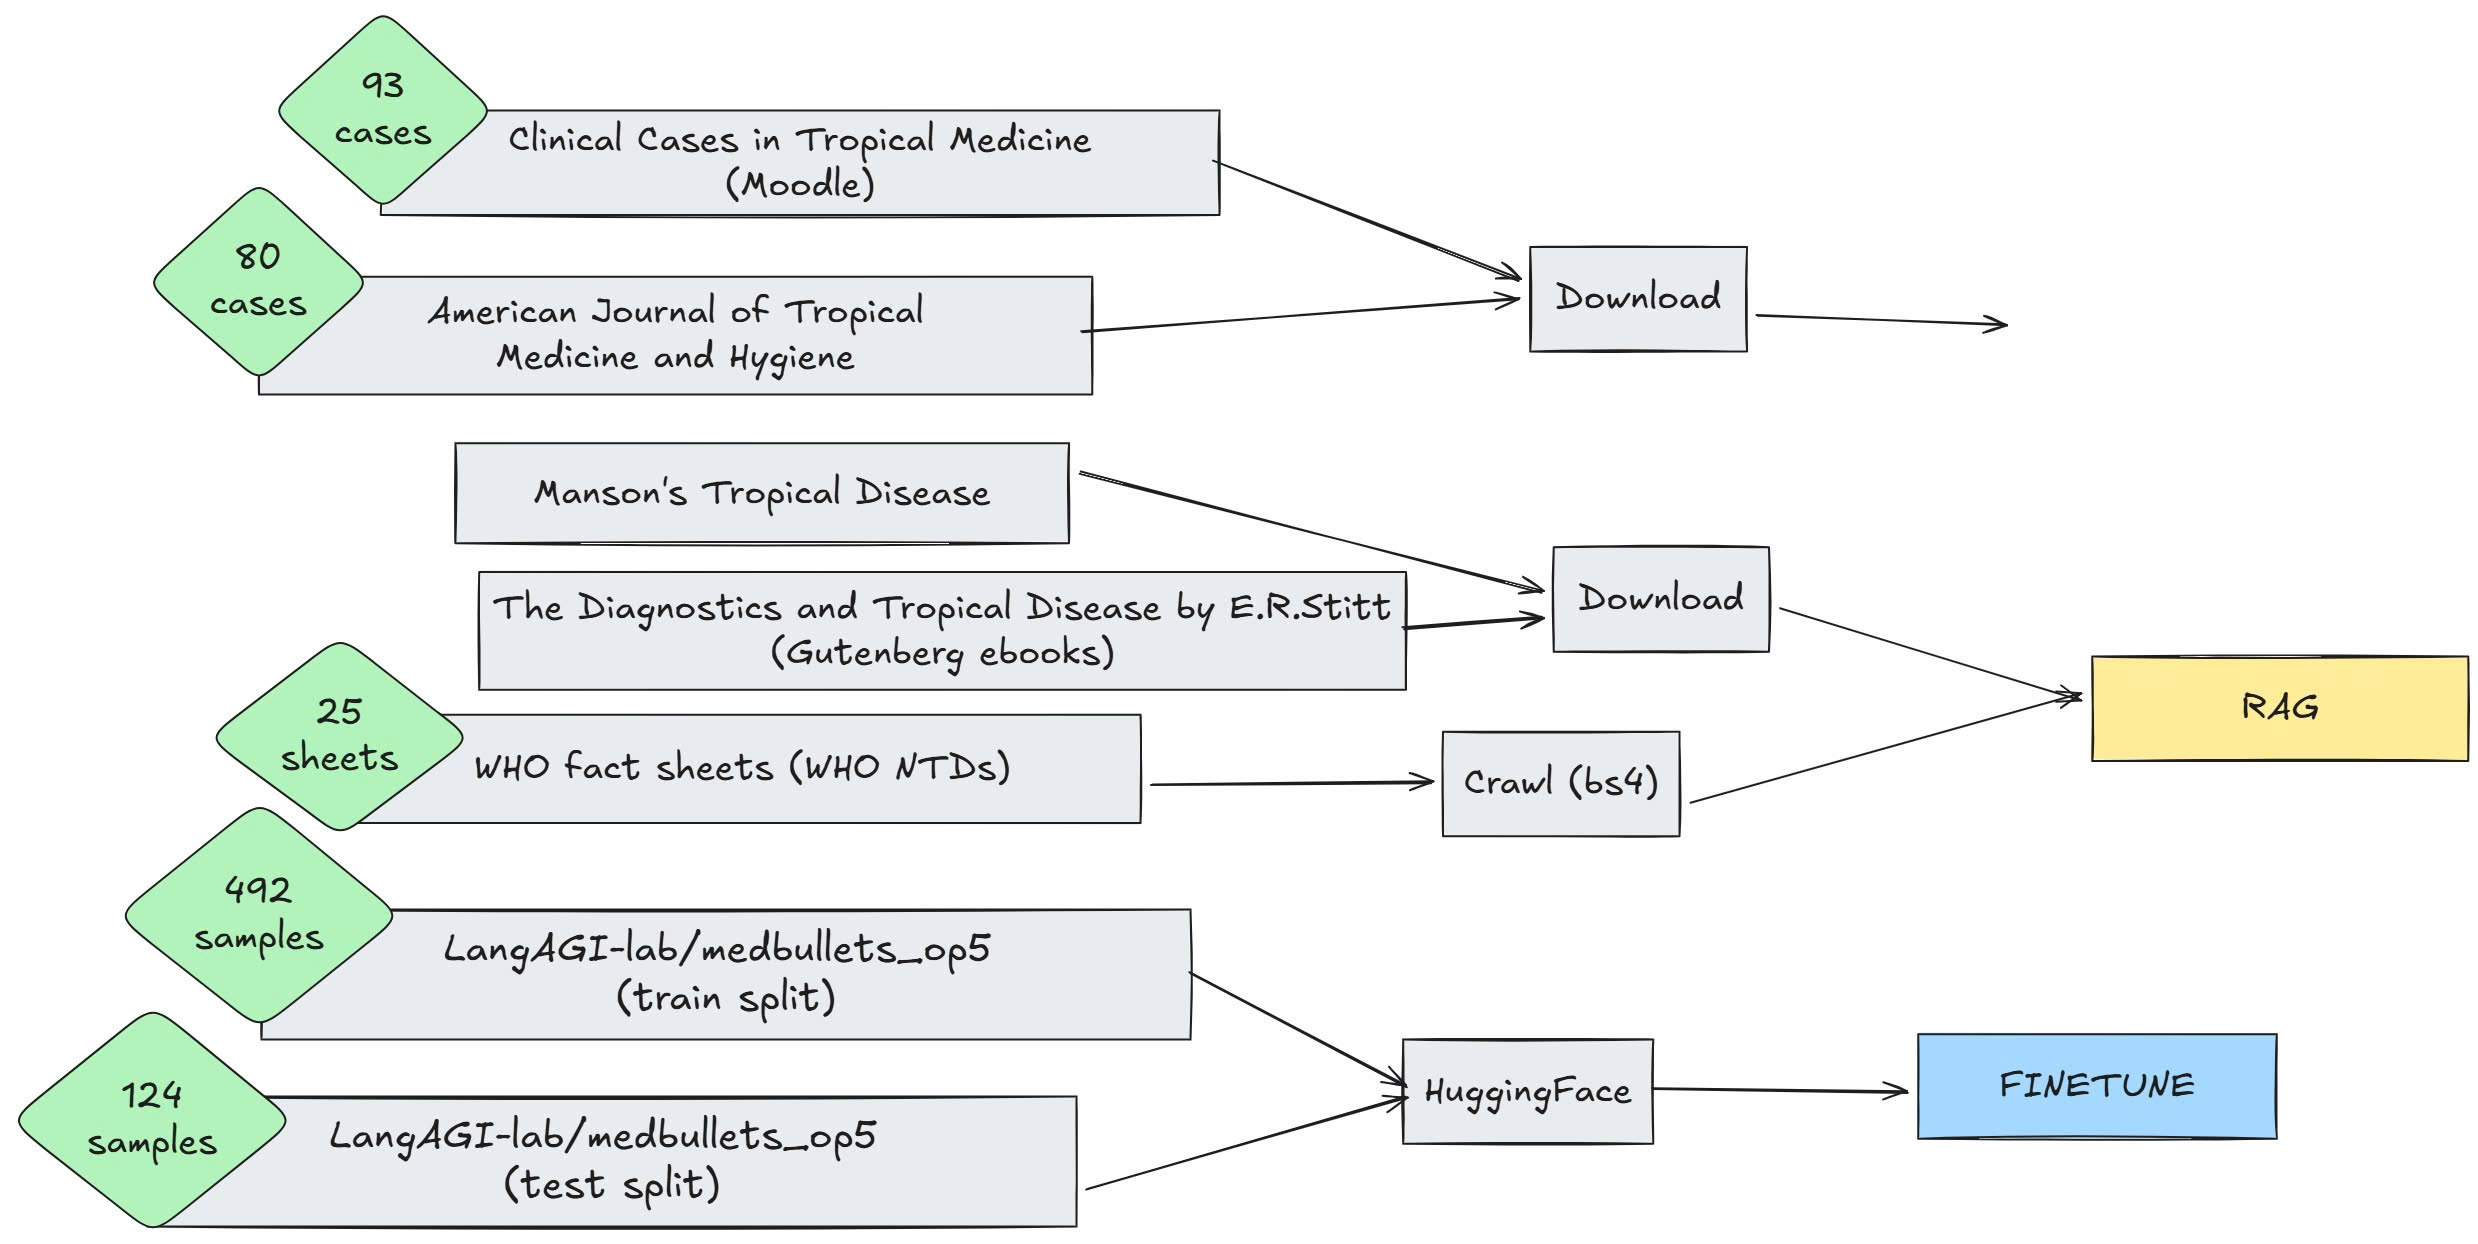
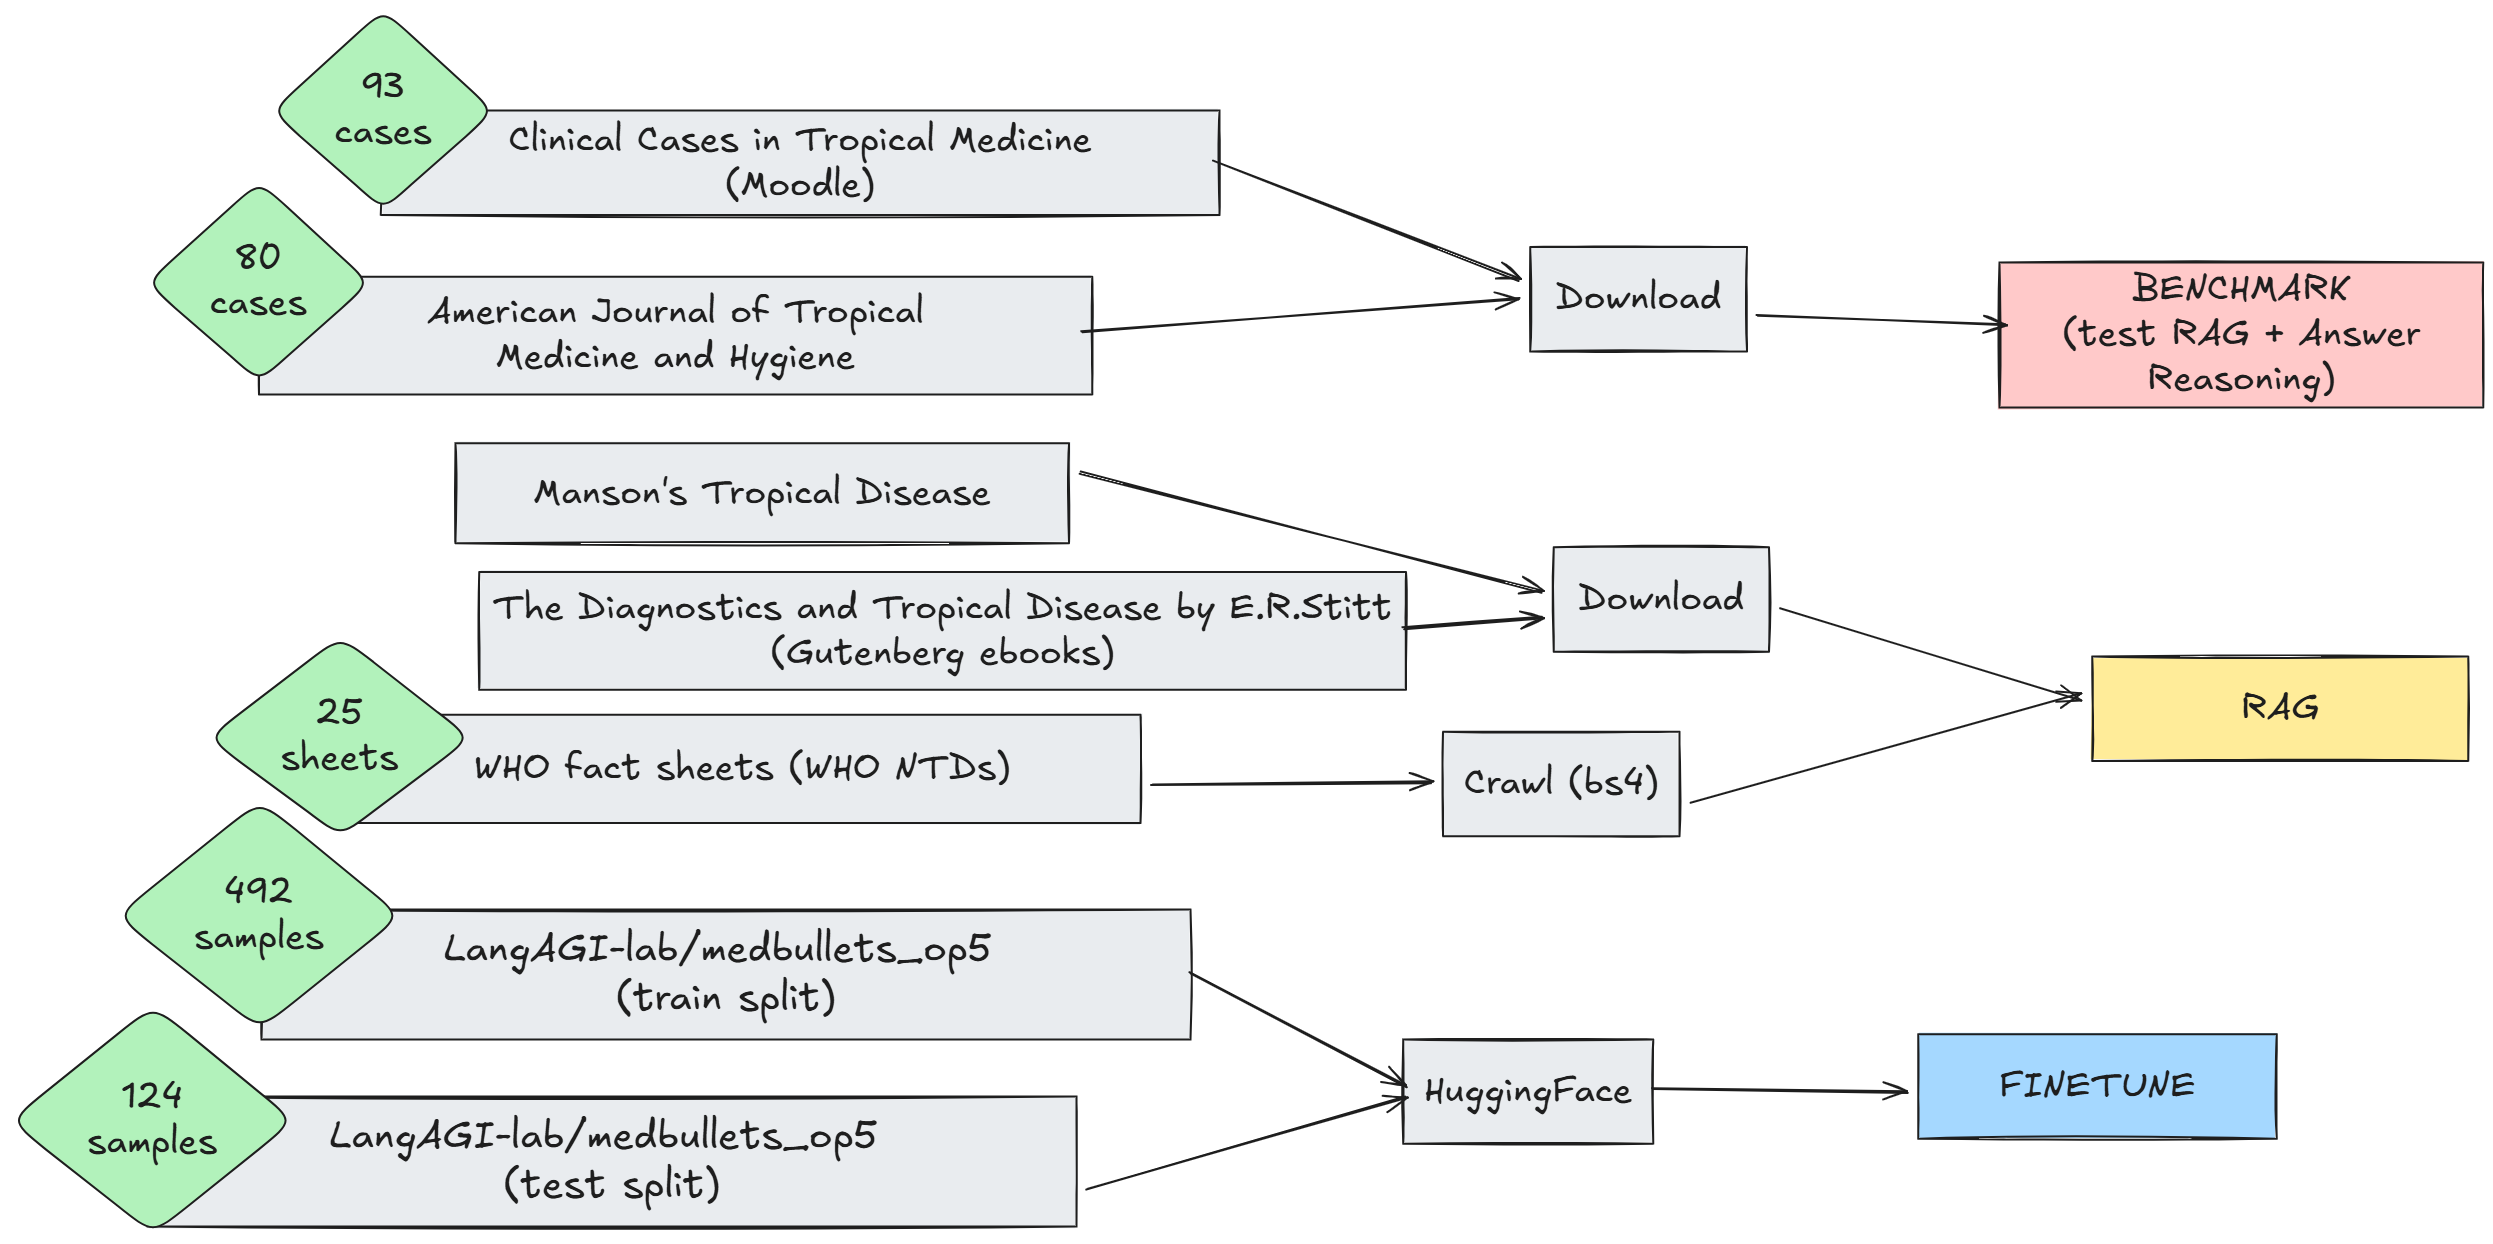
refactor: fix data partition figure and add ref for moodle.

diff --git a/sections/methodology-data-collection.tex b/sections/methodology-data-collection.tex
@@ -9,7 +9,7 @@
 We collect our data from various authoritative and reputable sources to ensure the factual correctness of our model,
 among which are textbooks, journals, and fact-sheets from worldwide institution.
 
-For textbooks, we collect top-tier ones in the field, including 
+For textbooks, we collect top-tier, standardized ones in the field, including 
 \textit{Manson's Tropical Infectious Diseases} (23rd edition)~\cite{farrar2014manson}, 
 \textit{Manson's Tropical Diseases} (24th edition)~\cite{farrar2023manson},
 \textit{Tropical and Parasitic Infections in the Intensive Care Unit}~\cite{feldman2005tropical} 
@@ -18,13 +18,14 @@ For textbooks, we collect top-tier ones in the field, including
 We also crawl the fact-sheets from \ac{WHO}'s official website. 
 For the QA-set, we utilize the medbullet\_op5 set from LangAGI-Lab on HuggingFace, 
 which contains sampled questions from \ac{USMLE}, a well-known medical licensing examination in the United States.
-We also synthesize another set based on 93 clinical case reports provided by the lecturer and 
+We also synthesize another set based on 93 clinical case reports provided by the lecturer \textit{(from Clinical Cases in Tropical Medicine~\cite{whitty2024clinical})} and 
 80 open-access case reports from the \ac{AJTMH}.
 The data sources in our collection are summarized in Table~\ref{tab:data-sources}.
 
 % Add table summarizing data sources
 \begin{table*}[htbp]
 \centering
+\caption{Overview of Data Sources}
 \begin{tabular}{llll}
 \hline
 \textbf{Name} & \textbf{Volume} & \textbf{Type} & \textbf{Modality} \\
@@ -44,20 +45,19 @@ Current Topics in Tropical Medicine
 The Diagnostic and Treatment of Tropical Diseases (E-book)
 & 63 ch. / 754 pp. & Textbook & Text + Images \\
 
-WHO 
+WHO Factsheets
 & 25 fact-sheets & Fact-sheet & Text \\
 
-medbullet\_op5 
+Medbullet Medical Exam Questions (medbullet\_op5)
 & 160 QA pairs & QA-set & Text + Images \\
 
-Moodle 
+Clinical Cases in Tropical Medicine (Moodle)
 & 93 case reports & Case Report & Text + Images \\
 
 \acs{AJTMH} 
 & 80 case reports & Case Report & Text + Images \\
 \hline
 \end{tabular}
-\caption{Overview of Data Sources}
 \label{tab:data-sources}
 \end{table*}
 
@@ -86,7 +86,6 @@ build the knowledge base. Meanwhile, we utilize the medbullet\_op5 to perform in
 Finally, for benchmarking, we synthesize another set from the 173 case reports collected from multiple sources. 
 Our partition is visualized in Figure~\ref{fig:data-splits}.
 
-% Optional: Add figure showing data split visualization
 \begin{figure}[htbp]
   \centering
   \includegraphics[width=\columnwidth]{figures/data_partition.png}
